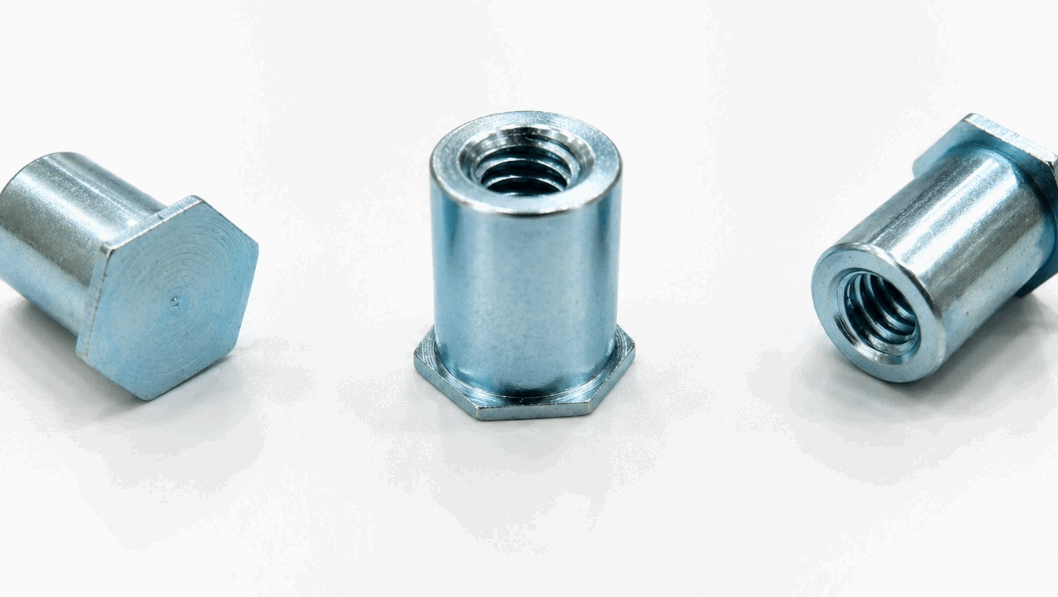
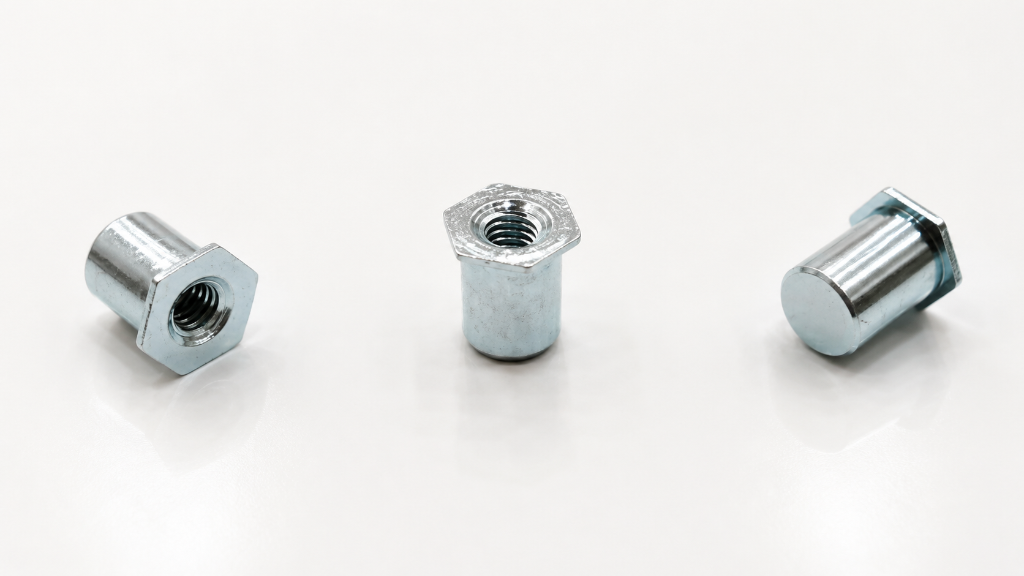
Replace BSOR image with new photo (Version 160)

Changed region(s): [[0.375, 0.1875, 0.625, 0.7188], [0.75, 0.1875, 1.0, 0.7188], [0.0, 0.25, 0.25, 0.7188]]

diff --git a/public/engineering-query.html b/public/engineering-query.html
@@ -2793,7 +2793,7 @@ h3 {
                 <button class="tab-btn" data-sys="nail-gallery">釘子圖</button>
             </nav>
         </div>
-<span class="site-version" aria-label="網站版次 Version 159 測試">Version 159 測試</span>
+<span class="site-version" aria-label="網站版次 Version 160 測試">Version 160 測試</span>
     </header>
 
     <!-- 1. 折彎與開孔查詢系統 -->

diff --git a/public/service-worker.js b/public/service-worker.js
@@ -1,4 +1,4 @@
-const CACHE_NAME = 'engineering-query-pwa-v159';
+const CACHE_NAME = 'engineering-query-pwa-v160';
 const APP_SHELL = [
   './',
   './engineering-query.html',
